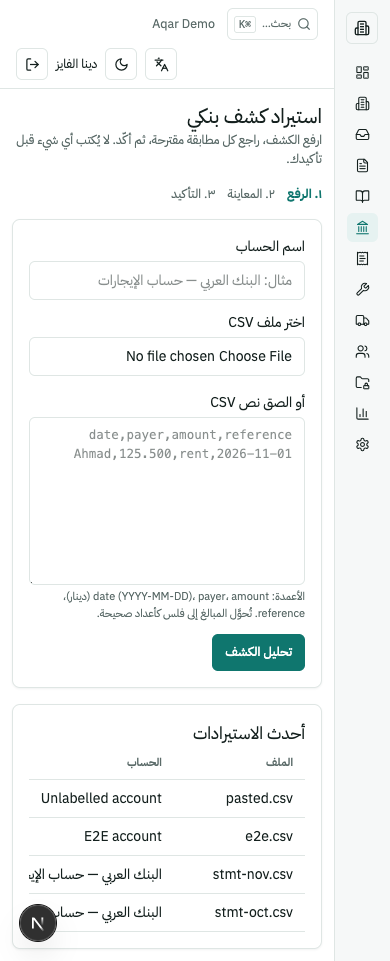
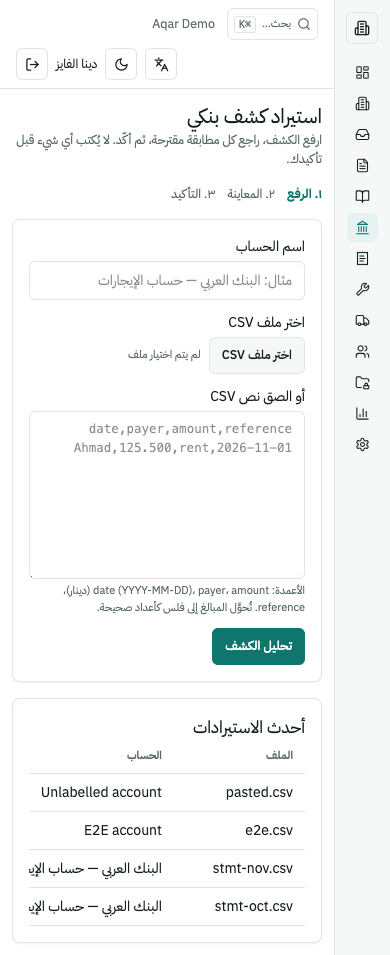
fix(web): localized file picker, readable statement tables on phones
Visual QA (vision pass over the re-shot 390px screenshots) plus DOM
measurement found four real defects that the mechanical overflow probe
could not see:

- The bank wizard's file chooser was the browser-native control, so the
  Arabic page showed "No file chosen / Choose File". Replaced with a
  localized button + Arabic "no file chosen" text over a visually hidden
  <input type=file> (id/ref preserved for a11y and behaviour).
- Statement summary tables forced horizontal scrolling at phone widths, so
  the amounts — the whole point of the page — were off-screen. The
  label/value deductions table is now a stacking grid below 560px, and the
  three-column owner-share table drops the ownership % column
  (.hide-narrow) so owner + amount fit; the rent table drops the
  reference-only "Billed" column and the "Unit" header no longer reads
  "Unit / tenant".
- The "no completed work orders" note overflowed the card because
  `td:last-child { white-space: nowrap }` also matched a single-cell row;
  scoped with :not(:only-child).
- Money cells now keep the currency on one line and align to the end
  column; cell text aligns to start so Arabic names do not leave a ragged
  edge in an LTR table.

Also: next.config.ts devIndicators=false so committed screenshots are not
polluted by the Next dev badge; title attributes on truncated table cells.

Verified: DOM read at 390px shows section-by-section figures identical in
[…]

diff --git a/apps/web/src/app/(console)/statements/page.tsx b/apps/web/src/app/(console)/statements/page.tsx
@@ -91,21 +91,21 @@ export default async function StatementsPage({ searchParams }: {
         <h3 style={{ fontSize: 'var(--text-md)', marginBlockStart: 'var(--space-3)' }}>{s.rentSection}</h3>
         <p style={{ fontSize: 'var(--text-xs)', color: 'var(--muted)' }}>{s.rentHint}</p>
         {rent.length === 0 ? <EmptyState title={s.rentSection} hint={s.emptyRent} /> : (
-          <div className="table-scroll">
+          <div className="table-scroll table-narrow">
             <table className="money">
-              <thead><tr><th>{s.colUnit}</th><th>{s.tenant}</th><th>{s.colBilled}</th><th>{s.colCollected}</th></tr></thead>
+              <thead><tr><th>{s.colUnit}</th><th>{s.tenant}</th><th className="hide-narrow">{s.colBilled}</th><th>{s.colCollected}</th></tr></thead>
               <tbody>
                 {rent.map((r) => (
                   <tr key={r.leaseId}>
                     <td>{r.unitLabel}</td><td>{r.tenantName}</td>
-                    <td><MoneyText fils={r.billedFils} locale={locale} /></td>
+                    <td className="hide-narrow"><MoneyText fils={r.billedFils} locale={locale} /></td>
                     <td><MoneyText fils={r.collectedFils} locale={locale} /></td>
                   </tr>
                 ))}
               </tbody>
               <tfoot><tr>
                 <td colSpan={2}><strong>{s.totalRow}</strong></td>
-                <td><MoneyText fils={draft.billedRentFils} locale={locale} strong /></td>
+                <td className="hide-narrow"><MoneyText fils={draft.billedRentFils} locale={locale} strong /></td>
                 <td><MoneyText fils={draft.grossCollectedFils} locale={locale} strong /></td>
               </tr></tfoot>
             </table>
@@ -113,9 +113,8 @@ export default async function StatementsPage({ searchParams }: {
         )}
 
         <h3 style={{ fontSize: 'var(--text-md)', marginBlockStart: 'var(--space-3)' }}>{s.deductions}</h3>
-        <div className="table-scroll">
-          <table className="money">
-            <tbody>
+        <table className="money kv-table">
+          <tbody>
               <tr><td>{s.grossCollected}</td><td><MoneyText fils={draft.grossCollectedFils} locale={locale} /></td></tr>
               <tr><td>{s.billedRent} · {s.collectionRate} {formatPercentBps(draft.collectionRateBps, locale)}</td><td><MoneyText fils={draft.billedRentFils} locale={locale} /></td></tr>
               <tr>
@@ -126,7 +125,7 @@ export default async function StatementsPage({ searchParams }: {
                 <td>{s.expensesLine} ({s.expensesHint})</td>
                 <td>−<MoneyText fils={draft.expensesFils} locale={locale} /></td>
               </tr>
-              {expenses.length === 0 && <tr><td colSpan={2} style={{ fontSize: 'var(--text-xs)', color: 'var(--muted)' }}>{s.emptyExpenses}</td></tr>}
+              {expenses.length === 0 && <tr><td colSpan={2} style={{ fontSize: 'var(--text-xs)', color: 'var(--muted)', overflowWrap: 'break-word' }}>{s.emptyExpenses}</td></tr>}
               {expenses.map((e) => (
                 <tr key={e.workOrderId}><td style={{ fontSize: 'var(--text-xs)' }}>{e.label} · {e.completedISO}</td><td><MoneyText fils={e.costFils} locale={locale} /></td></tr>
               ))}
@@ -137,19 +136,18 @@ export default async function StatementsPage({ searchParams }: {
               </tr>
             </tbody>
           </table>
-        </div>
         {blockedText !== null && <p role="alert" style={{ color: 'var(--danger)', fontSize: 'var(--text-sm)', overflowWrap: 'anywhere' }}>{blockedText}: {draft.blocked?.detail}</p>}
 
         <h3 style={{ fontSize: 'var(--text-md)', marginBlockStart: 'var(--space-3)' }}>{s.shareSection}</h3>
         {draft.ownerShares.length === 0 ? <EmptyState title={s.shareSection} hint={s.ownerNoShare} /> : (
-          <div className="table-scroll">
+          <div className="table-scroll table-narrow">
             <table className="money">
-              <thead><tr><th>{s.owner}</th><th>{s.shareOwnership}</th><th>{s.shareAmount}</th></tr></thead>
+              <thead><tr><th>{s.owner}</th><th className="hide-narrow">{s.shareOwnership}</th><th>{s.shareAmount}</th></tr></thead>
               <tbody>
                 {draft.ownerShares.map((sh) => (
                   <tr key={sh.ownerId} style={sh.ownerId === ownerId ? { background: 'var(--accent-soft)' } : undefined}>
                     <td>{ownerName(sh.ownerId)}</td>
-                    <td className="tnum">{formatPercentBps(sh.shareBps, locale)}</td>
+                    <td className="tnum hide-narrow">{formatPercentBps(sh.shareBps, locale)}</td>
                     <td><MoneyText fils={sh.amountFils} locale={locale} strong={sh.ownerId === ownerId} /></td>
                   </tr>
                 ))}

diff --git a/apps/web/src/app/(console)/bank/BankWizard.tsx b/apps/web/src/app/(console)/bank/BankWizard.tsx
@@ -88,9 +88,16 @@ export function BankWizard({ locale, recent }: { locale: Locale; recent: readonl
             </div>
             <div style={{ display: 'grid', gap: 4, minInlineSize: 0 }}>
               <label htmlFor="bank-file">{t('bank.pickFile')}</label>
+              {/* The native file control always renders in the browser's own language,
+                  so it is visually replaced by a localized button + the chosen file name. */}
               <input id="bank-file" ref={fileRef} type="file" accept=".csv,text/csv" onChange={onFile}
-            style={{ inlineSize: '100%', maxInlineSize: '100%', minInlineSize: 0 }} />
-              <span style={{ fontSize: 'var(--text-xs)', color: 'var(--muted)' }}>{fileName}</span>
+                style={{ position: 'absolute', inlineSize: 1, blockSize: 1, opacity: 0, overflow: 'hidden' }} />
+              <div style={{ display: 'flex', gap: 'var(--space-2)', alignItems: 'center', flexWrap: 'wrap', minInlineSize: 0 }}>
+                <Button onClick={() => fileRef.current?.click()}>{t('bank.pickFile')}</Button>
+                <span style={{ fontSize: 'var(--text-xs)', color: 'var(--muted)', overflowWrap: 'anywhere' }}>
+                  {fileName.length === 0 ? t('bank.noFile') : fileName}
+                </span>
+              </div>
             </div>
             <div style={{ display: 'grid', gap: 4, minInlineSize: 0 }}>
               <label htmlFor="bank-paste">{t('bank.pasteLabel')}</label>
@@ -140,7 +147,7 @@ export function BankWizard({ locale, recent }: { locale: Locale; recent: readonl
                       <tr key={row.rowNumber}>
                         <td className="tnum">{row.rowNumber}</td>
                         <td className="tnum">{row.dateISO}</td>
-                        <td>{row.payerName}</td>
+                        <td title={row.payerName}>{row.payerName}</td>
                         <td><MoneyText fils={row.amountFils} locale={locale} /></td>
                         <td>{row.duplicateKind === null
                           ? <Badge tone="ok">{t('bank.status.new')}</Badge>
@@ -201,7 +208,7 @@ export function BankWizard({ locale, recent }: { locale: Locale; recent: readonl
               <thead><tr><th>{t('bank.recent.col.file')}</th><th>{t('bank.recent.col.account')}</th><th>{t('bank.recent.col.lines')}</th><th>{t('bank.recent.col.at')}</th></tr></thead>
               <tbody>
                 {recent.map((record) => (
-                  <tr key={record.id}><td>{record.fileName}</td><td>{record.accountLabel}</td><td className="tnum">{record.lineCount}</td><td className="tnum">{record.importedAtISO.slice(0, 10)}</td></tr>
+                  <tr key={record.id}><td title={record.fileName}>{record.fileName}</td><td title={record.accountLabel}>{record.accountLabel}</td><td className="tnum">{record.lineCount}</td><td className="tnum">{record.importedAtISO.slice(0, 10)}</td></tr>
                 ))}
               </tbody>
             </table>

diff --git a/apps/web/src/app/globals.css b/apps/web/src/app/globals.css
@@ -17,6 +17,22 @@
 @media (max-width: 640px) { :root { --main-pad: var(--space-3); } }
 .table-scroll { overflow-x: auto; min-inline-size: 0; }
 .table-scroll table { min-inline-size: 560px; }
+.money td:last-child:not(:only-child), .money th:last-child:not(:only-child) { white-space: nowrap; }
+.money td { text-align: start; }
+.money td.tnum, .money td:last-child:not(:only-child) { text-align: end; }
+/* Label/value summary tables (statement deductions): the amount is the point,
+   so at phone widths the row stacks instead of forcing horizontal scroll. */
+.kv-table td { vertical-align: baseline; }
+.kv-table td:last-child:not(:only-child) { text-align: end; white-space: nowrap; font-variant-numeric: tabular-nums; }
+@media (max-width: 560px) {
+  .kv-table tr { display: grid; grid-template-columns: minmax(0, 1fr) auto; column-gap: var(--space-3, 8px); align-items: baseline; }
+  .kv-table td { display: block; }
+}
+/* Three-column tables whose first cell wraps do not need the dense 560px floor. */
+.table-scroll.table-narrow table { min-inline-size: 0; }
+.table-narrow td:first-child, .table-narrow th:first-child { overflow-wrap: break-word; }
+/* Reference-only columns drop out rather than push the value column off-screen. */
+@media (max-width: 560px) { .hide-narrow { display: none; } }
 * { box-sizing: border-box; }
 html, body { margin: 0; padding: 0; min-height: 100%; }
 a { color: var(--accent); text-decoration: none; }

diff --git a/apps/web/src/app/(console)/bank/i18n.ts b/apps/web/src/app/(console)/bank/i18n.ts
@@ -13,6 +13,7 @@ const en: Record<string, string> = {
   'bank.fileName': 'File name',
   'bank.fileNamePlaceholder': 'statement.csv',
   'bank.pickFile': 'Choose CSV file',
+  'bank.noFile': 'No file chosen',
   'bank.pasteLabel': 'Or paste CSV text',
   'bank.pasteHint': 'Columns: date (YYYY-MM-DD), payer, amount (JOD), reference. Amounts are converted to integer fils.',
   'bank.analyze': 'Analyze statement',
@@ -94,6 +95,7 @@ const ar: Record<string, string> = {
   'bank.fileName': 'اسم الملف',
   'bank.fileNamePlaceholder': 'statement.csv',
   'bank.pickFile': 'اختر ملف CSV',
+  'bank.noFile': 'لم يتم اختيار ملف',
   'bank.pasteLabel': 'أو الصق نص CSV',
   'bank.pasteHint': 'الأعمدة: date (YYYY-MM-DD)، payer، amount (دينار)، reference. تُحوَّل المبالغ إلى فلس كأعداد صحيحة.',
   'bank.analyze': 'تحليل الكشف',

diff --git a/apps/web/src/app/(console)/statements/dict.ts b/apps/web/src/app/(console)/statements/dict.ts
@@ -75,7 +75,7 @@ const EN: StatementStrings = {
   refresh: 'Reload statement',
   rentSection: 'Rent collected in the period',
   rentHint: 'Rent charged per lease for this period, and the payment allocations received against each charge.',
-  colUnit: 'Unit / tenant',
+  colUnit: 'Unit',
   colBilled: 'Billed',
   colCollected: 'Collected',
   colPercent: 'Share',
@@ -134,7 +134,7 @@ const AR: StatementStrings = {
   refresh: 'تحديث الكشف',
   rentSection: 'الإيجارات المحصّلة في الفترة',
   rentHint: 'الإيجار المستحق على كل عقد في هذه الفترة، والمبالغ المخصّصة له من الدفعات المستلمة.',
-  colUnit: 'الوحدة / المستأجر',
+  colUnit: 'الوحدة',
   colBilled: 'المستحق',
   colCollected: 'المحصّل',
   colPercent: 'النسبة',

diff --git a/apps/web/next.config.ts b/apps/web/next.config.ts
@@ -5,6 +5,7 @@ const config: NextConfig = {
   serverExternalPackages: ['@node-rs/argon2', 'postgres'],
   eslint: { ignoreDuringBuilds: true }, // lint runs as its own CI gate, not inside next build
   typescript: { ignoreBuildErrors: false },
+  devIndicators: false, // keep committed screenshots free of the dev badge
   webpack: (cfg) => {
     // Workspace packages use NodeNext-style .js specifiers pointing at .ts sources.
     cfg.resolve.extensionAlias = {
